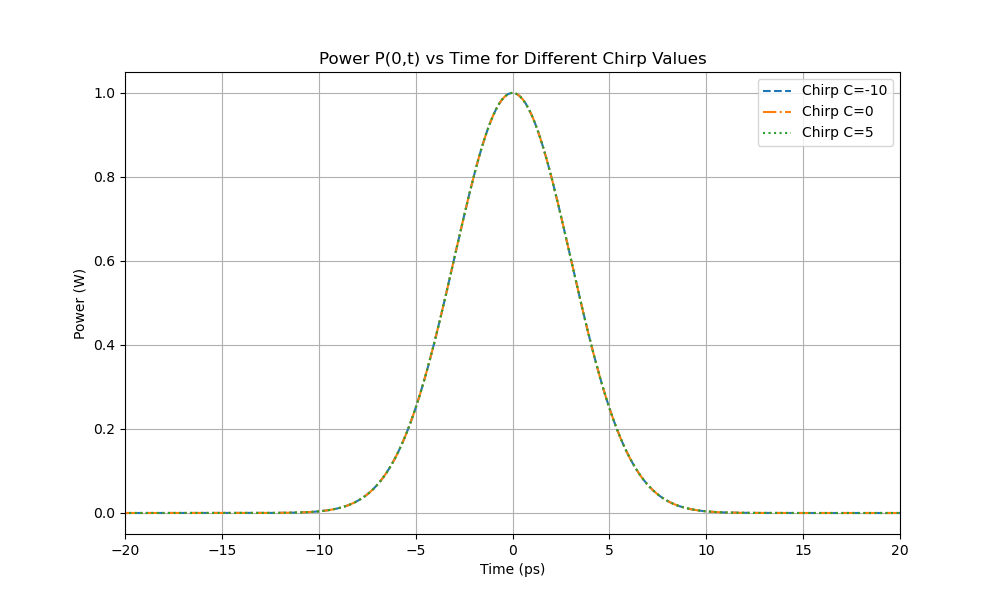
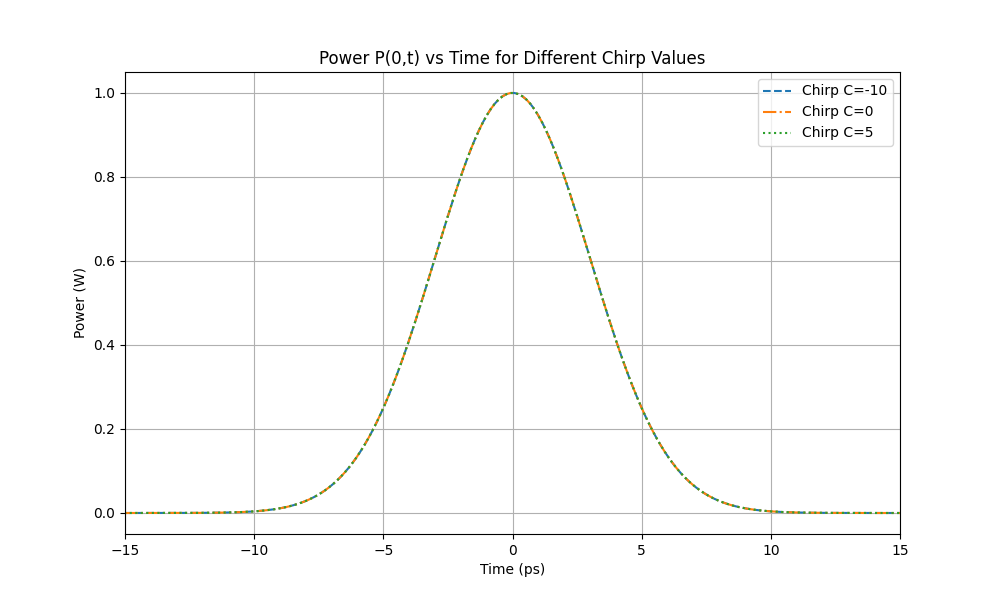
Code reformatting and plot improvements

diff --git a/part-1/q1_6.py b/part-1/q1_6.py
@@ -8,41 +8,46 @@ from q1_5 import Z_VALUES
 
 # Define constants and parameters
 beta_2 = -21.68  # Group Velocity Dispersion (ps^2/km)
-T0 = 10 / (2 * np.sqrt(np.log(2)))  # Convert FWHM to T0 for Gaussian pulse (T0 = TFWHM / (2 * sqrt(ln(2)))
-z_analytical_values = np.arange(0, 5.001, 0.001)  # Distance values from 0 to 5 km in steps of 0.001 km
+T0 = 10 / (2 * np.sqrt(np.log(2)))  # Convert FWHM to T0 for Gaussian pulse
+z_analytical_values = np.arange(0, 5.001, 0.001)  # 0-5 km range
 
 # Define the parameters for pulse propagation
 T_sa, _, _, _ = calculate_sampling_and_frequency_params()
-T_sa *= 1e12
+
 
 # Define pulse envelope for different chirp values
 def gaussian_pulse(t, A0, T0, C):
     return A0 * np.exp(-(1 + 1j * C) * (t**2) / (T0**2))
 
+
 # Define the analytical ratio function as specified
 def analytical_ratio(C, z):
-    return np.sqrt(1 + (beta_2 * C * z / T0**2)**2 + (beta_2 * z / T0**2)**2)
+    return np.sqrt(1 + (beta_2 * C * z / T0**2) ** 2 + (beta_2 * z / T0**2) ** 2)
+
 
 # Function to propagate in the frequency domain
 def propagate_pulse(A0, time_vector, z, beta2):
     # Perform FFT
-    freq_vector = np.fft.fftfreq(len(time_vector), T_sa)  # Frequency vector
+    freq_vector = np.fft.fftfreq(len(time_vector), T_sa * 1e12)  # Frequency vector
     A_freq = np.fft.fft(A0)  # Frequency domain representation of input pulse
 
     # Apply phase shift due to dispersion
-    H = np.exp(1j * (beta2 * (2 * np.pi * freq_vector)**2 / 2) * z)
+    H = np.exp(1j * (beta2 * (2 * np.pi * freq_vector) ** 2 / 2) * z)
     A_freq_out = A_freq * H
 
     # Perform inverse FFT
     A_out = np.fft.ifft(A_freq_out)
     return A_out
 
+
 def main():
     # Calculate the analytical ratio for each C and z
     analytical_ratios = {C: analytical_ratio(C, z_analytical_values) for C in C_VALUES}
 
     # Initial pulses for C values
-    initial_pulses = {C: calculate_gaussian_field(A0, T0, C, TIME_VECTOR) for C in C_VALUES}
+    initial_pulses = {
+        C: calculate_gaussian_field(A0, T0, C, TIME_VECTOR) for C in C_VALUES
+    }
 
     # Store FWHM values for each chirp and distance
     FWHM_values = {C: [] for C in C_VALUES}
@@ -51,35 +56,38 @@ def main():
     for C, pulse in initial_pulses.items():
         for z in Z_VALUES:
             if z == 0:
-                power = np.abs(pulse)**2
+                power = np.abs(pulse) ** 2
             else:
                 propagated_pulse = propagate_pulse(pulse, TIME_VECTOR, z, beta_2)
-                power = np.abs(propagated_pulse)**2
+                power = np.abs(propagated_pulse) ** 2
 
             FWHM = calculate_FWHM(TIME_VECTOR, power)
             FWHM_values[C].append(FWHM)
 
     # Calculate numerical ratios: TFWHM(z) / TFWHM(0)
-    numerical_ratios = {C: np.array(FWHM_values[C]) / FWHM_values[C][0] for C in C_VALUES}
+    numerical_ratios = {
+        C: np.array(FWHM_values[C]) / FWHM_values[C][0] for C in C_VALUES
+    }
 
     # Regenerate the scatter plot with the exact numerical values
     plt.figure(figsize=(10, 6))
     # Plot analytical ratios
     for C in C_VALUES:
-        plt.plot(z_analytical_values, analytical_ratios[C], label=f'Analytical C={C}')
+        plt.plot(z_analytical_values, analytical_ratios[C], label=f"Analytical C={C}")
 
     # Scatter points for numerical ratios using actual calculated FWHM values
-    plt.scatter(Z_VALUES, numerical_ratios[-10], label='Simulated C=-10', marker='o')
-    plt.scatter(Z_VALUES, numerical_ratios[0], label='Simulated C=0', marker='o')
-    plt.scatter(Z_VALUES, numerical_ratios[5], label='Simulated C=5', marker='o')
+    plt.scatter(Z_VALUES, numerical_ratios[-10], label="Simulated C=-10", marker="o")
+    plt.scatter(Z_VALUES, numerical_ratios[0], label="Simulated C=0", marker="o")
+    plt.scatter(Z_VALUES, numerical_ratios[5], label="Simulated C=5", marker="o")
 
     # Labels and legend
-    plt.xlabel('Distance z (km)')
-    plt.ylabel('Ratio $T_{FWHM1}(z)/T_{FWHM}$')
-    plt.title('Ratio of Temporal Width vs Distance for Different Chirp Values')
+    plt.xlabel("Distance z (km)")
+    plt.ylabel("Ratio $T_{FWHM1}(z)/T_{FWHM}$")
+    plt.title("Ratio of Temporal Width vs Distance for Different Chirp Values")
     plt.legend()
     plt.grid(True)
     plt.show()
 
-if __name__ == '__main__':
+
+if __name__ == "__main__":
     main()

diff --git a/part-1/q1_5.py b/part-1/q1_5.py
@@ -9,9 +9,11 @@ from q1_3 import calculate_FWHM
 beta_2 = -21.68  # Dispersion parameter (ps^2/km)
 Z_VALUES = [0, 0.3199, 1.6636, 3.3272]  # Propagation distances in km
 
+
 # Define Gaussian pulse with chirp
 def initial_pulse(t, A0, T0, C):
-    return A0 * np.exp(-((1 + 1j * C) * (t / T0)**2))
+    return A0 * np.exp(-((1 + 1j * C) * (t / T0) ** 2))
+
 
 def calculate_pulse_evolution(z_values):
     # Compute the evolution for each chirp value and distance
@@ -30,17 +32,18 @@ def calculate_pulse_evolution(z_values):
             phase_shift = np.exp(1j * (beta_2 / 2) * omega_vector**2 * z)
             A_zf = A_0f * phase_shift  # Apply phase shift
             A_zt = np.fft.ifft(A_zf)  # Convert back to time domain
-            P_zt = np.abs(A_zt)**2  # b) Calculate power
+            P_zt = np.abs(A_zt) ** 2  # b) Calculate power
             results[C][z] = (TIME_VECTOR, A_zt, P_zt)  # Store results
 
     return results
 
+
 def main():
     results = calculate_pulse_evolution(Z_VALUES)
-    
+
     # Print table header
     print(f"| {'C Value':^10} | {'Z Value (km)':^15} | {'T_FWHM (ps)':^15} |")
-    
+
     # Calculate and display FWHM in a table format
     for C in C_VALUES:
         print("-" * 50)
@@ -48,26 +51,29 @@ def main():
             time_vector, A_zt, P_zt = results[C][z]
             fwhm = calculate_FWHM(time_vector, P_zt)
             print(f"| {C:^10} | {z:^15.4f} | {fwhm:^15.2f} |")
-    
+
     # Modified Plotting: Plot all C values for each z value
-    fig, axs = plt.subplots(1, len(Z_VALUES), figsize=(18, 6))  # Create one row of subplots for each z value
+    fig, axs = plt.subplots(
+        1, len(Z_VALUES), figsize=(14, 3)
+    )  # Create one row of subplots for each z value
     for j, z in enumerate(Z_VALUES):
         xscale = 500
         axs[j].set_xlim(-xscale, xscale)
-        axs[j].set_ylim(0, 0.25)
+        axs[j].set_ylim(0, 0.15)
 
         # Plot all C values for this z value
         for C in C_VALUES:
             time_vector, A_zt, P_zt = results[C][z]
-            axs[j].plot(time_vector, P_zt, label=f'C={C}')
-        
-        axs[j].set_xlabel('Time (ps)')
-        axs[j].set_ylabel('Power')
+            axs[j].plot(time_vector, P_zt, label=f"C={C}")
+
+        axs[j].set_xlabel("Time (ps)")
+        axs[j].set_ylabel("Power")
         axs[j].legend()
-        axs[j].set_title(f'Power vs Time\nz={z} km')
+        axs[j].set_title(f"Power vs Time\nz={z} km")
 
     plt.tight_layout()
     plt.show()
 
-if __name__ == '__main__':
+
+if __name__ == "__main__":
     main()

diff --git a/part-1/q1_3.py b/part-1/q1_3.py
@@ -9,21 +9,26 @@ T_sa, _, _, _ = calculate_sampling_and_frequency_params()
 
 # Frequency vector creation
 FREQ_VECTOR = np.fft.fftfreq(N, T_sa)  # Create the frequency vector
-FREQ_VECTOR = np.fft.fftshift(FREQ_VECTOR)  # Shift zero frequency component to the center
+FREQ_VECTOR = np.fft.fftshift(
+    FREQ_VECTOR
+)  # Shift zero frequency component to the center
+
 
 def calculate_normalized_power_spectrum(A_t):
     # a) Calculate the spectra of electical field envelope
     A_f = np.fft.fft(A_t)  # FFT of the time domain signal
     A_f = np.fft.fftshift(A_f)  # Shift FFT
     # b) Calculate the power spectra
-    P_f = np.abs(A_f)**2  # Power spectrum |A(f)|^2
+    P_f = np.abs(A_f) ** 2  # Power spectrum |A(f)|^2
     P_f_normalized = P_f / np.max(P_f)  # Normalize the power spectrum
     return P_f_normalized
+
 
 def calculate_FWHM(t, P):
     half_max = np.max(P) / 2
     indices = np.where(P >= half_max)[0]
-    return t[indices[-1]] - t[indices[0]] # Return the difference (FWHM)
+    return t[indices[-1]] - t[indices[0]]  # Return the difference (FWHM)
+
 
 def main() -> None:
     # Plot the spectra for each chirp value
@@ -35,24 +40,27 @@ def main() -> None:
         A_t = calculate_gaussian_field(A0, T0, C, TIME_VECTOR)
         P_f_normalized = calculate_normalized_power_spectrum(A_t)
         fwhm = calculate_FWHM(FREQ_VECTOR, P_f_normalized)
-        
+
         # c) Plot normalized power spectrum
-        plt.plot(FREQ_VECTOR / 1e9, P_f_normalized, label=f'Chirp C={C}')
+        plt.plot(FREQ_VECTOR / 1e9, P_f_normalized, label=f"Chirp C={C}")
 
         # d) Measure the FWHM width of the spectra
         print(f"| {C:^5d} | {fwhm/1e9:^18.2f} |")
 
-    xscale = 1500
+    xscale = 1000
     plt.xlim(-xscale, xscale)
     plt.ylim(0, 1)
 
     # Plot settings
-    plt.title('Normalized Power Spectrum P(0,f) vs Frequency for Different Chirp Values')
-    plt.xlabel('Frequency (GHz)')
-    plt.ylabel('Normalized Power Spectrum')
+    plt.title(
+        "Normalized Power Spectrum P(0,f) vs Frequency for Different Chirp Values"
+    )
+    plt.xlabel("Frequency (GHz)")
+    plt.ylabel("Normalized Power Spectrum")
     plt.legend()
     plt.grid(True)
     plt.show()
 
-if __name__ == '__main__':
+
+if __name__ == "__main__":
     main()

diff --git a/part-1/q1_2.py b/part-1/q1_2.py
@@ -13,19 +13,21 @@ A0 = 1  # Peak amplitude (W^1/2)
 # Creating the time vector
 TIME_VECTOR = np.linspace(-TW / 2, TW / 2, N)
 
+
 # Function to generate the Gaussian field
 def calculate_gaussian_field(A0, T0, C, t):
     first_term = (1 + 1j * C) / 2  # 1j is a complex number in Python
     second_term = (t / T0) ** 2
     return A0 * np.exp(-first_term * second_term)
 
+
 # Main function to plot the curves in a single plot
 def main() -> None:
     plt.figure(figsize=(10, 6))
 
     # Color and line style for each chirp value
-    #colors = ['red', 'green', 'blue']
-    line_styles = ['--', '-.', ':']
+    # colors = ['red', 'green', 'blue']
+    line_styles = ["--", "-.", ":"]
 
     # Plot each chirp value in a single plot
     for i, C in enumerate(C_VALUES):
@@ -34,17 +36,19 @@ def main() -> None:
         P_t = np.abs(A_t) ** 2  # Power is |A(0,t)|^2
 
         # Plot with distinct color and line style
-        plt.plot(TIME_VECTOR, P_t, linestyle=line_styles[i], label=f'Chirp C={C}')
+        plt.plot(TIME_VECTOR, P_t, linestyle=line_styles[i], label=f"Chirp C={C}")
 
     # Set labels and title
-    plt.xlabel('Time (ps)')
-    plt.ylabel('Power (W)')
-    plt.title('Power P(0,t) vs Time for Different Chirp Values')
+    plt.xlabel("Time (ps)")
+    plt.ylabel("Power (W)")
+    plt.title("Power P(0,t) vs Time for Different Chirp Values")
     plt.legend()  # Show legend to distinguish curves
     plt.grid(True)
-    plt.xlim(-20, 20)  # Set x-axis limits for better visualization
+    xscale = 15
+    plt.xlim(-xscale, xscale)  # Set x-axis limits for better visualization
     plt.show()
 
+
 # Run the main function
-if __name__ == '__main__':
+if __name__ == "__main__":
     main()

diff --git a/part-1/q1_1.py b/part-1/q1_1.py
@@ -1,22 +1,24 @@
 # Assumptions
-TW: float = 2500 # Time Window in picoseconds
+TW: float = 2500  # Time Window in picoseconds
 N: int = 2**14  # Number of samples
+
 
 def calculate_sampling_and_frequency_params() -> tuple[float, float, float, float]:
     T_sa: float = TW * 1e-12 / N  # Sampling period in seconds
     F_sa: float = 1 / T_sa  # Sampling frequency in Hz
     ΔF: float = F_sa / N  # Frequency bin in Hz
     F_min: float = -F_sa / 2  # Minimum frequency based on FFT conventions
-    
+
     return T_sa, F_sa, ΔF, F_min
+
 
 def main() -> None:
     T_sa, F_sa, ΔF, F_min = calculate_sampling_and_frequency_params()
-    print(f'T_sa : {T_sa:>30} s')
-    print(f'F_sa : {F_sa:>30} Hz ({F_sa/10e9} GHz)')
-    print(f'ΔF   : {ΔF:>30} Hz ({ΔF/10e6} MHz)')
-    print(f'F_min: {F_min:>30} Hz ({F_min/10e9} GHz)')
+    print(f"T_sa : {T_sa:>30} s")
+    print(f"F_sa : {F_sa:>30} Hz ({F_sa/1e9} GHz)")
+    print(f"ΔF   : {ΔF:>30} Hz ({ΔF/1e6} MHz)")
+    print(f"F_min: {F_min:>30} Hz ({F_min/1e9} GHz)")
 
 
-if __name__ == '__main__':
+if __name__ == "__main__":
     main()

diff --git a/part-1/q1_4.py b/part-1/q1_4.py
@@ -3,21 +3,25 @@ import numpy as np
 from q1_2 import C_VALUES, A0, T0, TIME_VECTOR, calculate_gaussian_field
 from q1_3 import FREQ_VECTOR, calculate_normalized_power_spectrum, calculate_FWHM
 
+
 def theoretical_FWHM(T0_ps, C):
     return (np.sqrt(np.log(2)) / (np.pi * T0_ps * 1e-12)) * np.sqrt(1 + C**2)
+
 
 def main():
     print("| Chirp | Measured FWHM (GHz) | Theoretical FWHM (GHz) |")
     print("-" * 56)
-    
+
     for C in C_VALUES:
         theoretical_value = theoretical_FWHM(T0, C)
         A_t = calculate_gaussian_field(A0, T0, C, TIME_VECTOR)
         P_f_normalized = calculate_normalized_power_spectrum(A_t)
         numerical_value = calculate_FWHM(FREQ_VECTOR, P_f_normalized)
-        
-        print(f"| {C:^5d} | {numerical_value/1e9:^19.2f} | {theoretical_value/1e9:^22.2f} |")
+
+        print(
+            f"| {C:^5d} | {numerical_value/1e9:^19.2f} | {theoretical_value/1e9:^22.2f} |"
+        )
 
 
-if __name__ == '__main__':
+if __name__ == "__main__":
     main()
